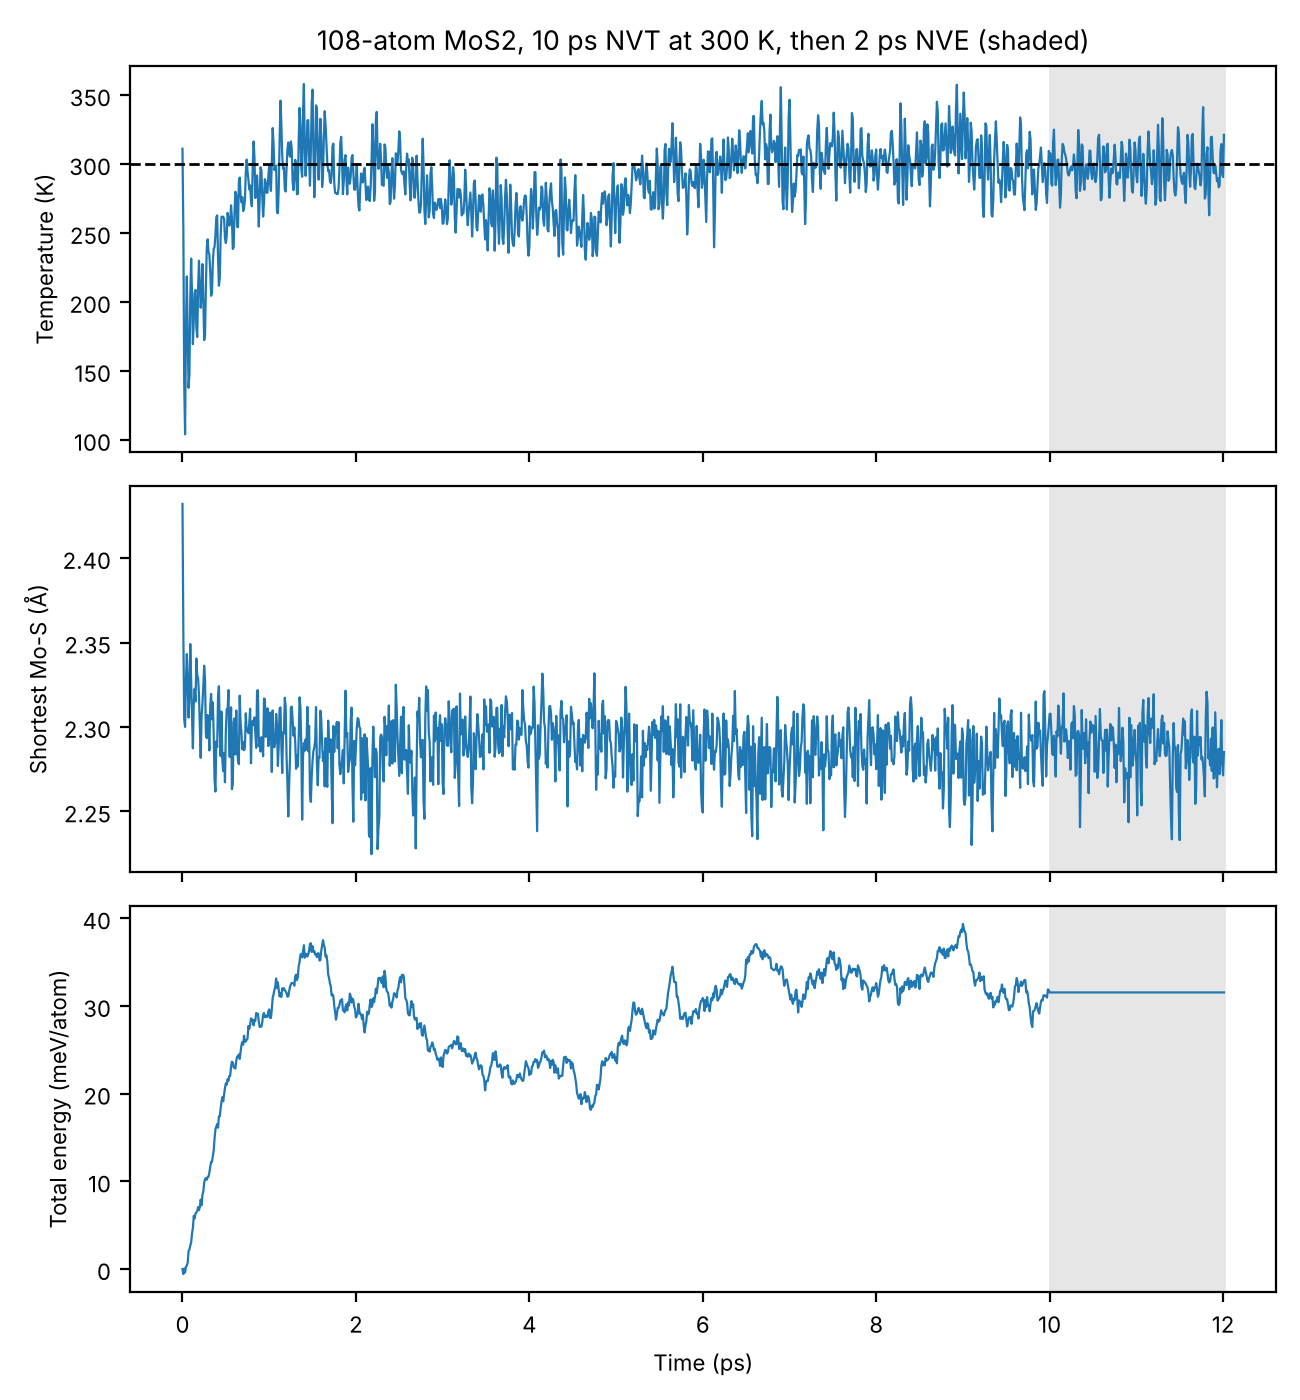
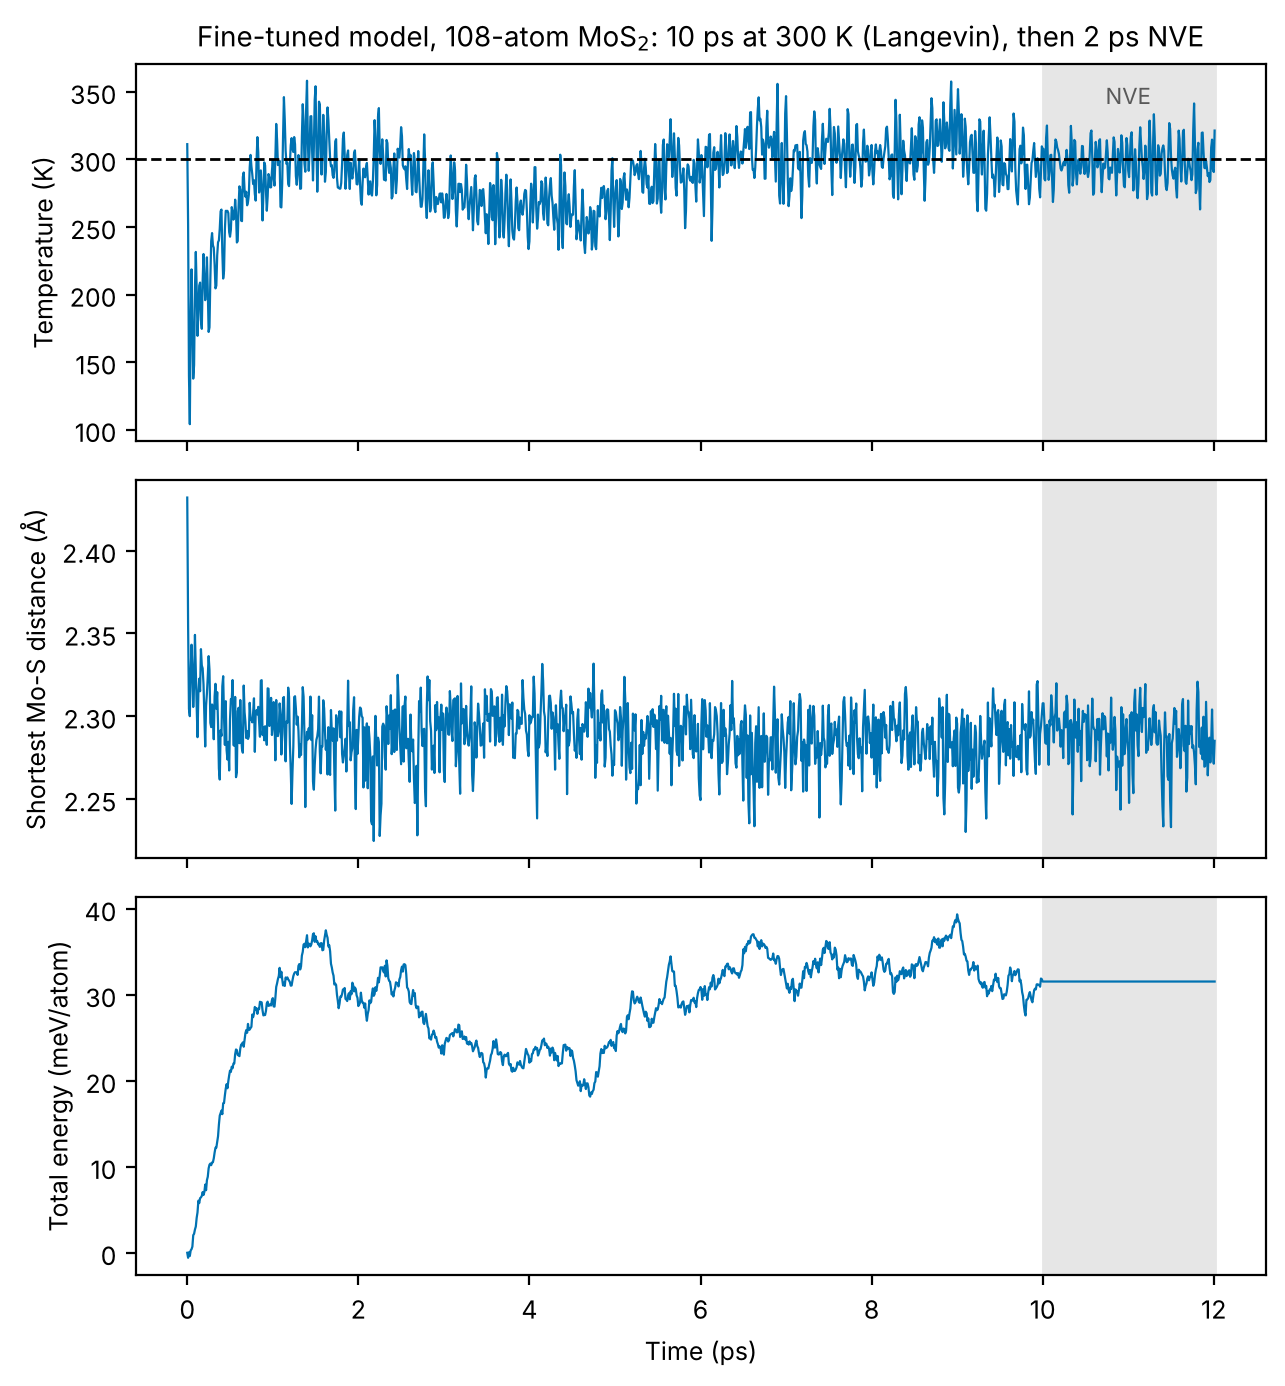
Use consistent colors and labels across figures

diff --git a/scripts/07_evaluate.py b/scripts/07_evaluate.py
@@ -98,36 +98,60 @@ for label in ("From scratch", "Fine-tuned", "Multi-head"):
 
 json.dump(metrics, open("results/metrics.json", "w"), indent=2)
 
+# one name, color and line style per model in every figure (colorblind-safe palette)
+GRAY, BLUE, RED, GREEN = "0.45", "#0072B2", "#D55E00", "#009E73"
+STYLE = {
+    "MACE-MP-0 zero-shot": dict(label="MACE-MP-0, no fine-tuning", color=GRAY, ls=":"),
+    "From scratch (70)": dict(label="From scratch", color=RED, ls="-"),
+    "Fine-tuned (70)": dict(label="Fine-tuned", color=BLUE, ls="-"),
+    "Multi-head (70)": dict(label="Multi-head", color=GREEN, ls="-"),
+    "Fine-tuned (70), lr 1e-4": dict(label="Fine-tuned", color=BLUE, ls="--"),
+    "Multi-head (70), lr 1e-4": dict(label="Multi-head", color=GREEN, ls="--"),
+}
+LR = {"": r"lr $5\times10^{-3}$", ", lr 1e-4": r"lr $10^{-4}$"}
+plt.rcParams.update({"font.size": 9, "axes.titlesize": 10, "legend.fontsize": 8})
+
+
+def strain_curve(ax, names, labels=None):
+    ax.plot(a_lat, 1000 * (e_eos - e_eos.min()), "ko", ms=5, label="DFT (PBE)", zorder=3)
+    for i, name in enumerate(names):
+        st = STYLE[name]
+        ax.plot(a_lat, 1000 * (preds[name][1] - preds[name][1].min()), color=st["color"], ls=st["ls"], lw=1.6,
+                label=labels[i] if labels else st["label"])
+    ax.set(xlabel="In-plane lattice constant (Å)", ylabel="Energy relative to minimum (meV/atom)")
+
+
 # force parity for the three main models, plus the distribution of their errors
 main = ["MACE-MP-0 zero-shot", "From scratch (70)", "Fine-tuned (70)"]
 fig, axes = plt.subplots(1, 4, figsize=(17, 4.4))
 lim = 1.05 * np.abs(f_test).max()
 for ax, name in zip(axes, main):
-    ax.scatter(f_test.ravel(), preds[name][0].ravel(), s=5, alpha=0.4)
+    ax.scatter(f_test.ravel(), preds[name][0].ravel(), s=5, alpha=0.4, color=STYLE[name]["color"])
     ax.plot([-lim, lim], [-lim, lim], "k--", lw=1)
     ax.set(xlim=(-lim, lim), ylim=(-lim, lim), xlabel="DFT force (eV/Å)", ylabel="Model force (eV/Å)",
-           title=f"{name}\nforce MAE = {metrics[name]['test_force_MAE_meV_per_A']:.0f} meV/Å")
+           title=f"{STYLE[name]['label']}\nforce MAE = {metrics[name]['test_force_MAE_meV_per_A']:.0f} meV/Å")
     ax.set_aspect("equal")
 bins = np.logspace(-1, 3.5, 30)
 for name in main:
-    axes[3].hist(1000 * np.abs(preds[name][0] - f_test).ravel(), bins=bins, histtype="step", lw=1.5, label=name)
+    axes[3].hist(1000 * np.abs(preds[name][0] - f_test).ravel(), bins=bins, histtype="step", lw=1.6,
+                 color=STYLE[name]["color"], label=STYLE[name]["label"])
 axes[3].set(xscale="log", xlabel="|Force error| (meV/Å)", ylabel="Force components", title="Error distribution")
-axes[3].legend(fontsize=8)
+axes[3].set_ylim(0, 1.4 * axes[3].get_ylim()[1])                 # room for the legend above the bars
+axes[3].legend(loc="upper left")
 fig.tight_layout()
 fig.savefig("results/force_parity.png", dpi=200, bbox_inches="tight")
 
-# learning curve: test set (left) and unseen S-vacancy set (right)
+# learning curve: test set (left) and unseen S-vacancy set (right), mean and std over 3 seeds at 70
 n = [20, 40, 70]
 zero = metrics["MACE-MP-0 zero-shot"]
 fig, axes = plt.subplots(1, 2, figsize=(10, 4))
 for ax, key, title in zip(axes, ["test_force_MAE_meV_per_A", "vacancy_force_MAE_meV_per_A"],
                           ["Pristine test set (held-out 600 K run + rattled)", "S-vacancy test set"]):
     curves = {}
-    for label, marker in [("Fine-tuned", "o"), ("From scratch", "s")]:
+    for label, marker, name in [("Fine-tuned", "o", "Fine-tuned (70)"), ("From scratch", "s", "From scratch (70)")]:
         y = [metrics[f"{label} ({k})"][key] for k in n[:2]] + [metrics[f"{label} (70), 3 seeds"][key]["mean"]]
         err = [0, 0, metrics[f"{label} (70), 3 seeds"][key]["std"]]
-        ax.errorbar(n, y, yerr=err, marker=marker, capsize=4,
-                    label=f"{label} MACE" if label == "From scratch" else "Fine-tuned MACE-MP-0")
+        ax.errorbar(n, y, yerr=err, marker=marker, capsize=4, color=STYLE[name]["color"], lw=1.6, label=label)
         curves[label] = y
     # label the higher point above and the lower point below, beside the error bar
     fmt = "{:.1f}" if key.startswith("test") else "{:.0f}"
@@ -139,9 +163,9 @@ for ax, key, title in zip(axes, ["test_force_MAE_meV_per_A", "vacancy_force_MAE_
             ax.annotate(fmt.format(v), (x, v), textcoords="offset points", xytext=(dx, dy), ha=ha, fontsize=8)
     ax.set(xticks=n, xlim=(6, 74), xlabel="Training structures", ylabel="Force MAE (meV/Å)", title=title)
     ax.set_ylim(bottom=0)
-axes[0].text(0.97, 0.35, f"MACE-MP-0 with no fine-tuning: {zero['test_force_MAE_meV_per_A']:.0f} meV/Å (off scale)",
-             transform=axes[0].transAxes, ha="right", va="bottom", fontsize=8, color="0.35")
-axes[1].axhline(zero["vacancy_force_MAE_meV_per_A"], color="0.5", ls="--", label="MACE-MP-0, no fine-tuning")
+axes[0].text(0.97, 0.35, f"MACE-MP-0, no fine-tuning: {zero['test_force_MAE_meV_per_A']:.0f} meV/Å (off scale)",
+             transform=axes[0].transAxes, ha="right", va="bottom", fontsize=8, color=GRAY)
+axes[1].axhline(zero["vacancy_force_MAE_meV_per_A"], color=GRAY, ls=":", lw=1.6, label=STYLE[main[0]]["label"])
 axes[1].set_ylim(0, 1.1 * max(axes[1].get_ylim()[1], zero["vacancy_force_MAE_meV_per_A"]))
 axes[0].legend(loc="lower left")
 axes[1].legend(loc="lower left")
@@ -149,38 +173,36 @@ fig.tight_layout()
 fig.savefig("results/learning_curve.png", dpi=200, bbox_inches="tight")
 
 # strain test
-plt.figure(figsize=(5.2, 4))
-plt.plot(a_lat, 1000 * (e_eos - e_eos.min()), "ko", label="DFT (PBE)")
-for name in main:
-    plt.plot(a_lat, 1000 * (preds[name][1] - preds[name][1].min()), "-", label=name)
-plt.xlabel("In-plane lattice constant (Å)")
-plt.ylabel("Energy relative to minimum (meV/atom)")
-plt.title("Held-out biaxial strain test")
-plt.legend()
-plt.tight_layout()
-plt.savefig("results/strain_test.png", dpi=200, bbox_inches="tight")
+fig, ax = plt.subplots(figsize=(5.2, 4))
+strain_curve(ax, main)
+ax.set_title("Held-out biaxial strain test (seed 1 models)")
+ax.legend()
+fig.tight_layout()
+fig.savefig("results/strain_test.png", dpi=200, bbox_inches="tight")
 
-# fine-tuning strategies: strain curves (left) and force error against strain-curve error (right)
-strategies = {"Naive, lr 5e-3": "Fine-tuned (70)", "Multi-head, lr 5e-3": "Multi-head (70)",
-              "Naive, lr 1e-4": "Fine-tuned (70), lr 1e-4", "Multi-head, lr 1e-4": "Multi-head (70), lr 1e-4"}
-fig, axes = plt.subplots(1, 2, figsize=(10.5, 4))
-axes[0].plot(a_lat, 1000 * (e_eos - e_eos.min()), "ko", label="DFT (PBE)")
-axes[0].plot(a_lat, 1000 * (preds[main[0]][1] - preds[main[0]][1].min()), "k:", label="No fine-tuning")
-for label, name in strategies.items():
-    axes[0].plot(a_lat, 1000 * (preds[name][1] - preds[name][1].min()), "-", label=label)
-axes[0].set(xlabel="In-plane lattice constant (Å)", ylabel="Energy relative to minimum (meV/atom)",
-            title="Held-out biaxial strain test")
-axes[0].legend(fontsize=8)
-for (label, name), color in zip(strategies.items(), ["C0", "C1", "C2", "C3"]):
-    m = metrics[name + ", 3 seeds"] if name + ", 3 seeds" in metrics else metrics[name]
+# fine-tuning strategies: strain curves (left) and force error against strain curve error (right)
+strategies = ["Fine-tuned (70)", "Multi-head (70)", "Fine-tuned (70), lr 1e-4", "Multi-head (70), lr 1e-4"]
+label = lambda name: f"{STYLE[name]['label']}, {LR[name[len(name.split(',')[0]):]]}"
+fig, axes = plt.subplots(1, 2, figsize=(11, 4.2))
+strain_curve(axes[0], [main[0]] + strategies, [STYLE[main[0]]["label"]] + [label(nm) for nm in strategies])
+axes[0].set_title("Held-out biaxial strain test (seed 1 models)")
+axes[0].legend(loc="upper center")
+for name in strategies:
+    m = metrics.get(name + ", 3 seeds", metrics[name])
     get = lambda k: (m[k]["mean"], m[k]["std"]) if isinstance(m[k], dict) else (m[k], 0)
     (x, dx), (y, dy) = get("strain_curve_RMSE_meV_per_atom"), get("test_force_MAE_meV_per_A")
-    axes[1].errorbar(x, y, xerr=dx, yerr=dy, fmt="o", color=color, capsize=3, label=label)
-zx = metrics[main[0]]["strain_curve_RMSE_meV_per_atom"]
-axes[1].axvline(zx, color="k", ls=":", lw=1)
-axes[1].text(zx, 0.97, " no fine-tuning", transform=axes[1].get_xaxis_transform(), fontsize=8, va="top")
-axes[1].set(xlabel="Strain curve RMSE (meV/atom)", ylabel="Test force MAE (meV/Å)", xlim=(0, None), ylim=(0, None),
-            title="Force accuracy against strain accuracy")
-axes[1].legend(fontsize=8, loc="lower right")
+    seeds = "3 seeds" if dx else "1 seed"
+    filled = STYLE[name]["ls"] == "-"
+    axes[1].errorbar(x, y, xerr=dx, yerr=dy, fmt="o" if filled else "s", ms=7, capsize=3, color=STYLE[name]["color"],
+                     mfc=STYLE[name]["color"] if filled else "white", mew=1.6, label=f"{label(name)} ({seeds})")
+zx = zero["strain_curve_RMSE_meV_per_atom"]
+axes[1].axvline(zx, color=GRAY, ls=":", lw=1.6)
+axes[1].text(zx + 0.08, 0.97, f"MACE-MP-0, no fine-tuning\n(force MAE {zero['test_force_MAE_meV_per_A']:.0f} meV/Å, off scale)",
+             transform=axes[1].get_xaxis_transform(), fontsize=8, va="top", color=GRAY)
+axes[1].annotate("better", xy=(0.03, 0.05), xytext=(0.14, 0.2), xycoords="axes fraction", fontsize=8, color=GRAY,
+                 ha="center", arrowprops=dict(arrowstyle="->", color=GRAY))
+axes[1].set(xlabel="Strain curve RMSE (meV/atom)", ylabel="Test force MAE (meV/Å)",
+            xlim=(0, 6.8), ylim=(0, 48), title="Force error against strain curve error")
+axes[1].legend(loc="lower right")
 fig.tight_layout()
 fig.savefig("results/finetuning_strategies.png", dpi=200, bbox_inches="tight")

diff --git a/scripts/08_md_stability.py b/scripts/08_md_stability.py
@@ -53,13 +53,19 @@ summary = {
 json.dump({"summary": summary, "log": log}, open("results/md_log.json", "w"))
 print(json.dumps(summary, indent=2))
 
+plt.rcParams.update({"font.size": 9, "axes.titlesize": 10})
 fig, ax = plt.subplots(3, 1, figsize=(6.5, 7), sharex=True)
-ax[0].plot(t, log["T_K"], lw=0.8); ax[0].axhline(300, color="k", ls="--", lw=1); ax[0].set_ylabel("Temperature (K)")
-ax[1].plot(t, log["min_MoS_A"], lw=0.8); ax[1].set_ylabel("Shortest Mo-S (Å)")
-ax[2].plot(t, 1000 * (np.array(log["E_total_eV"]) - log["E_total_eV"][0]) / len(atoms), lw=0.8)
-ax[2].set_ylabel("Total energy (meV/atom)"); ax[2].set_xlabel("Time (ps)")
+ax[0].plot(t, log["T_K"], lw=0.8, color="#0072B2")
+ax[0].axhline(300, color="k", ls="--", lw=1)
+ax[0].set_ylabel("Temperature (K)")
+ax[1].plot(t, log["min_MoS_A"], lw=0.8, color="#0072B2")
+ax[1].set_ylabel("Shortest Mo-S distance (Å)")
+ax[2].plot(t, 1000 * (np.array(log["E_total_eV"]) - log["E_total_eV"][0]) / len(atoms), lw=0.8, color="#0072B2")
+ax[2].set_ylabel("Total energy (meV/atom)")
+ax[2].set_xlabel("Time (ps)")
 for a in ax:
     a.axvspan(10, t[-1], color="0.9", zorder=0)
-ax[0].set_title("108-atom MoS2, 10 ps NVT at 300 K, then 2 ps NVE (shaded)")
+ax[0].text(11, 0.95, "NVE", transform=ax[0].get_xaxis_transform(), ha="center", va="top", fontsize=8, color="0.35")
+ax[0].set_title("Fine-tuned model, 108-atom MoS$_2$: 10 ps at 300 K (Langevin), then 2 ps NVE")
 fig.tight_layout()
-fig.savefig("results/md_stability.png", dpi=200)
+fig.savefig("results/md_stability.png", dpi=200, bbox_inches="tight")

diff --git a/README.md b/README.md
@@ -69,9 +69,9 @@ Multi-head fine-tuning keeps training on part of the foundation model's data whi
 | Fine-tuning | Learning rate | Force MAE (meV/Å) | Strain curve RMSE (meV/atom) | Vacancy force MAE (meV/Å) |
 |---|---:|---:|---:|---:|
 | None | | 244.3 | 1.5 | 384 |
-| Naive | 5 × 10⁻³ | 18.9 ± 0.3 | 4.9 ± 0.2 | 301 ± 9 |
+| Fine-tuned | 5 × 10⁻³ | 18.9 ± 0.3 | 4.9 ± 0.2 | 301 ± 9 |
 | Multi-head | 5 × 10⁻³ | 19.8 ± 0.1 | 5.4 ± 0.4 | 309 ± 8 |
-| Naive | 10⁻⁴ | 39.0 | 5.9 | 287 |
+| Fine-tuned | 10⁻⁴ | 39.0 | 5.9 | 287 |
 | Multi-head | 10⁻⁴ | 32.5 | 3.5 | 271 |
 
 * At 5 × 10⁻³ the replay data makes no difference. The 70 MoS₂ structures dominate the shared weights.
